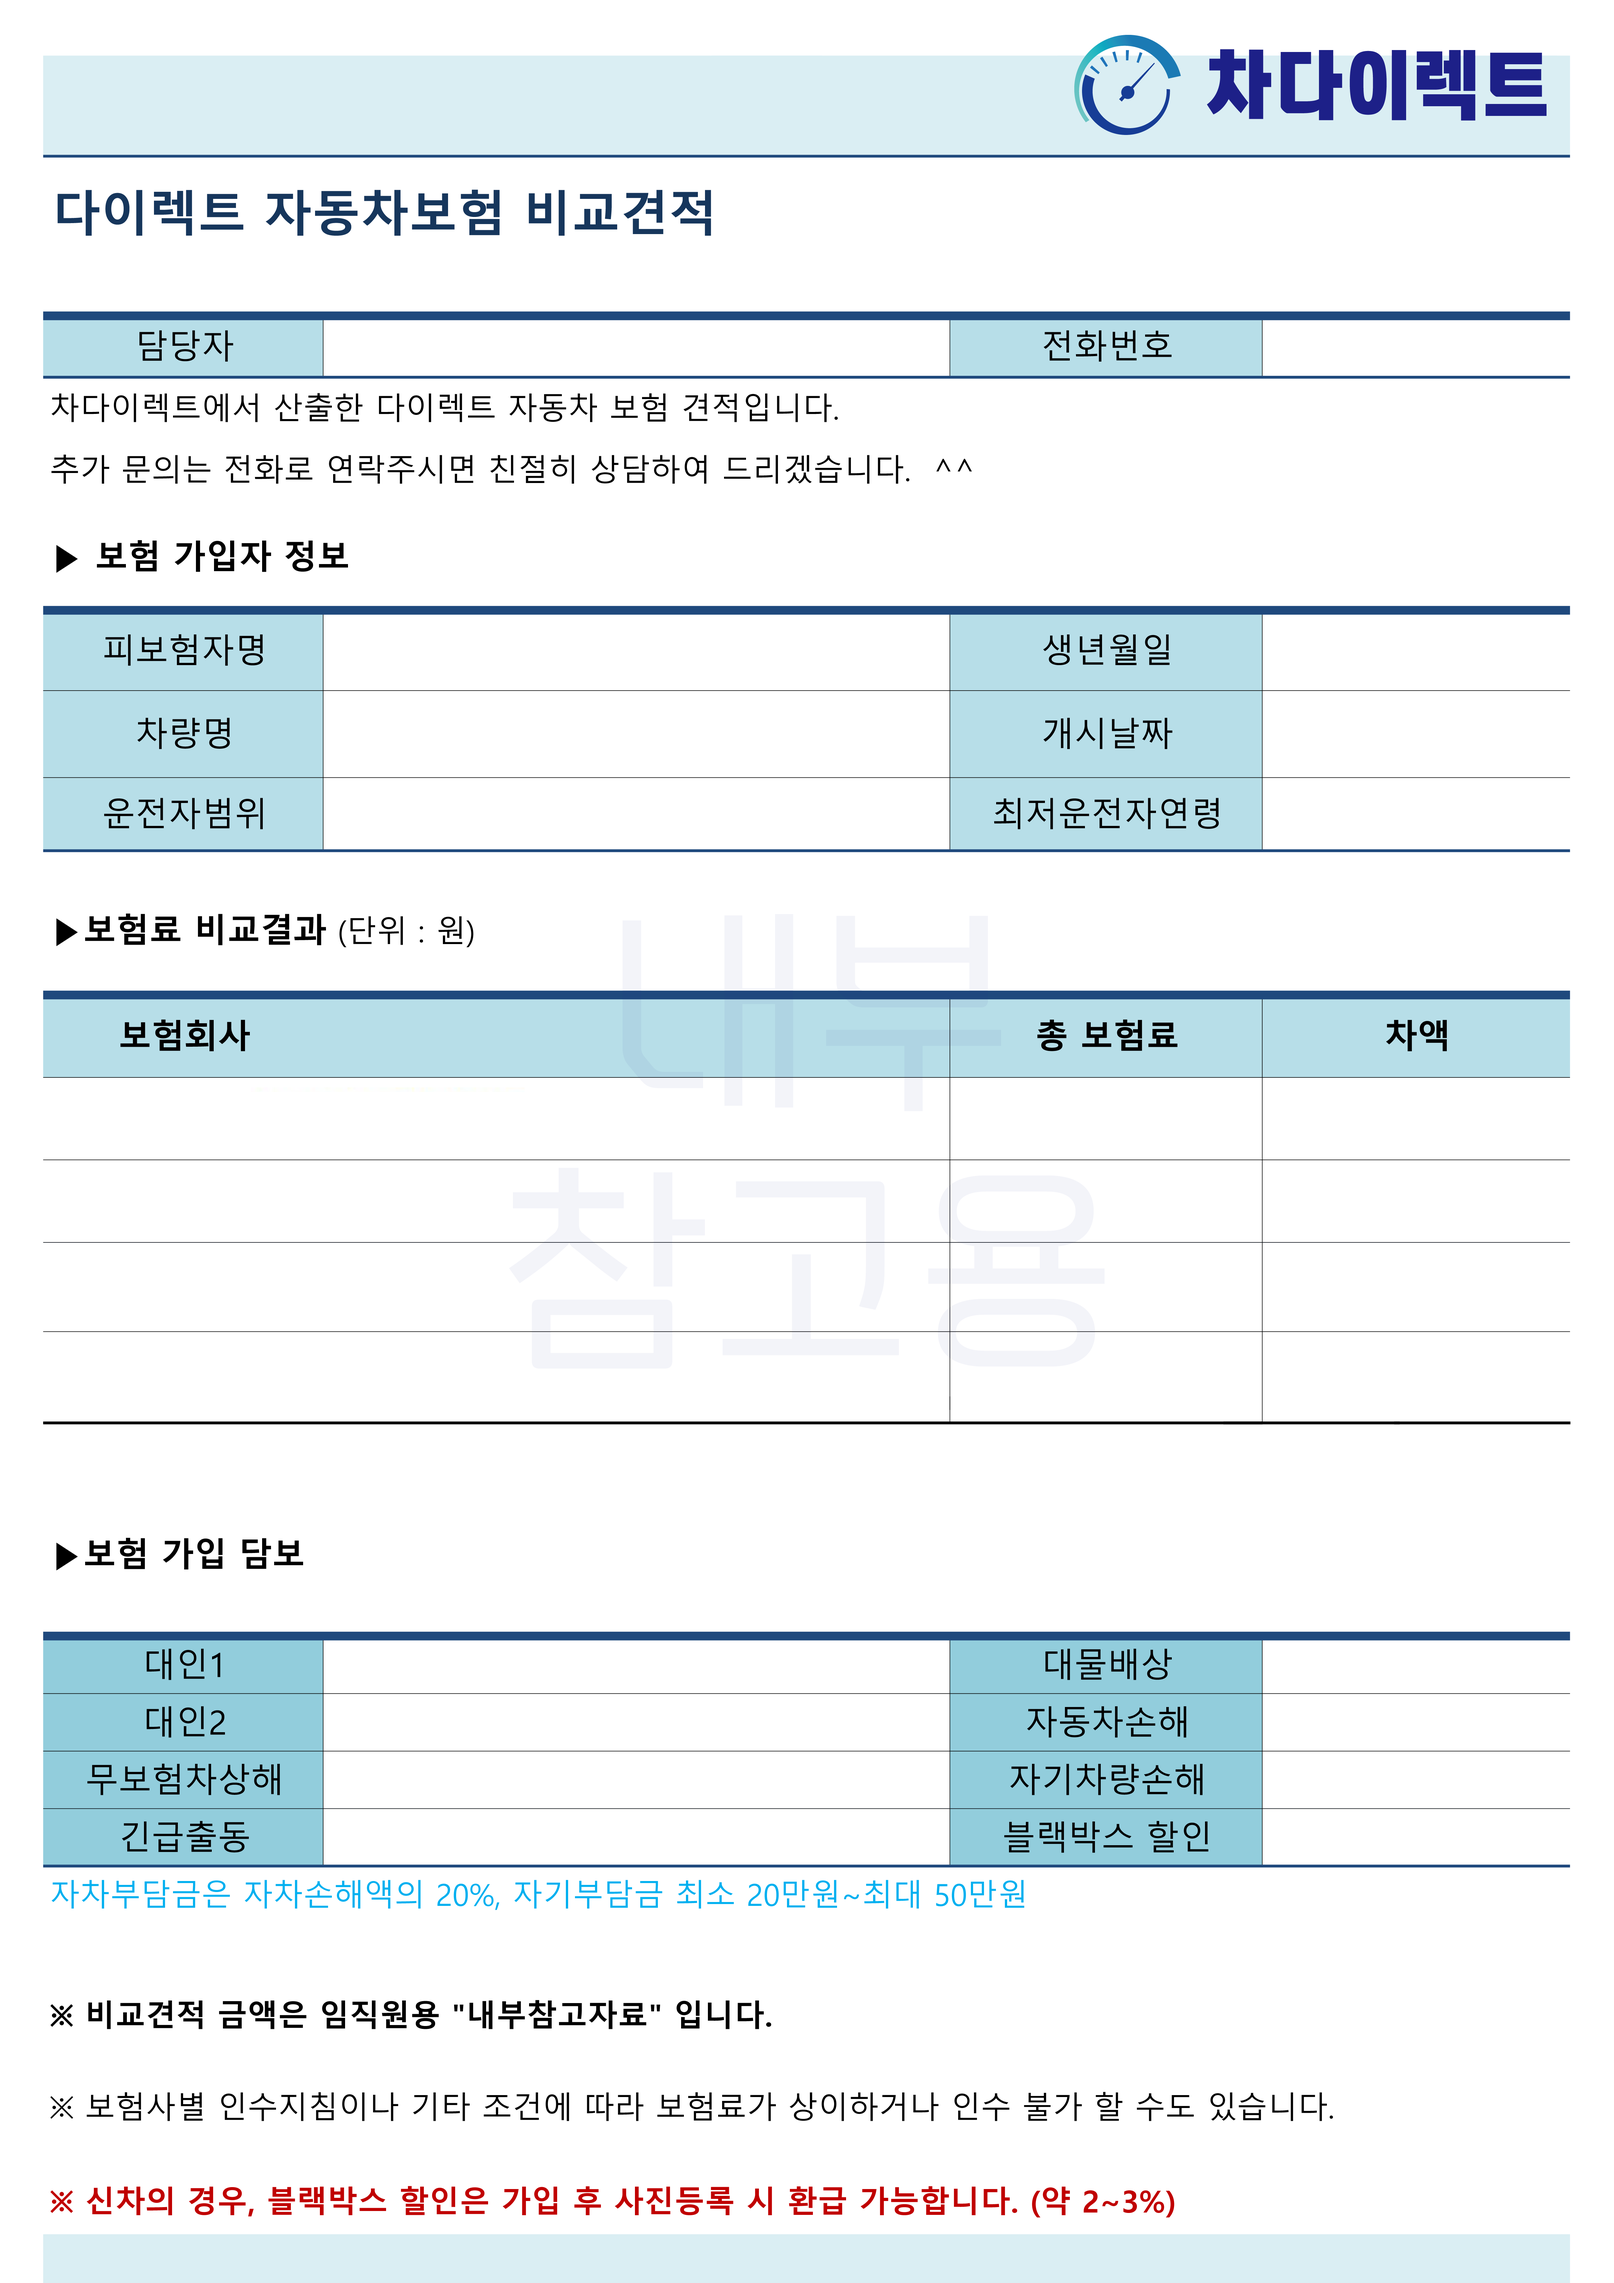
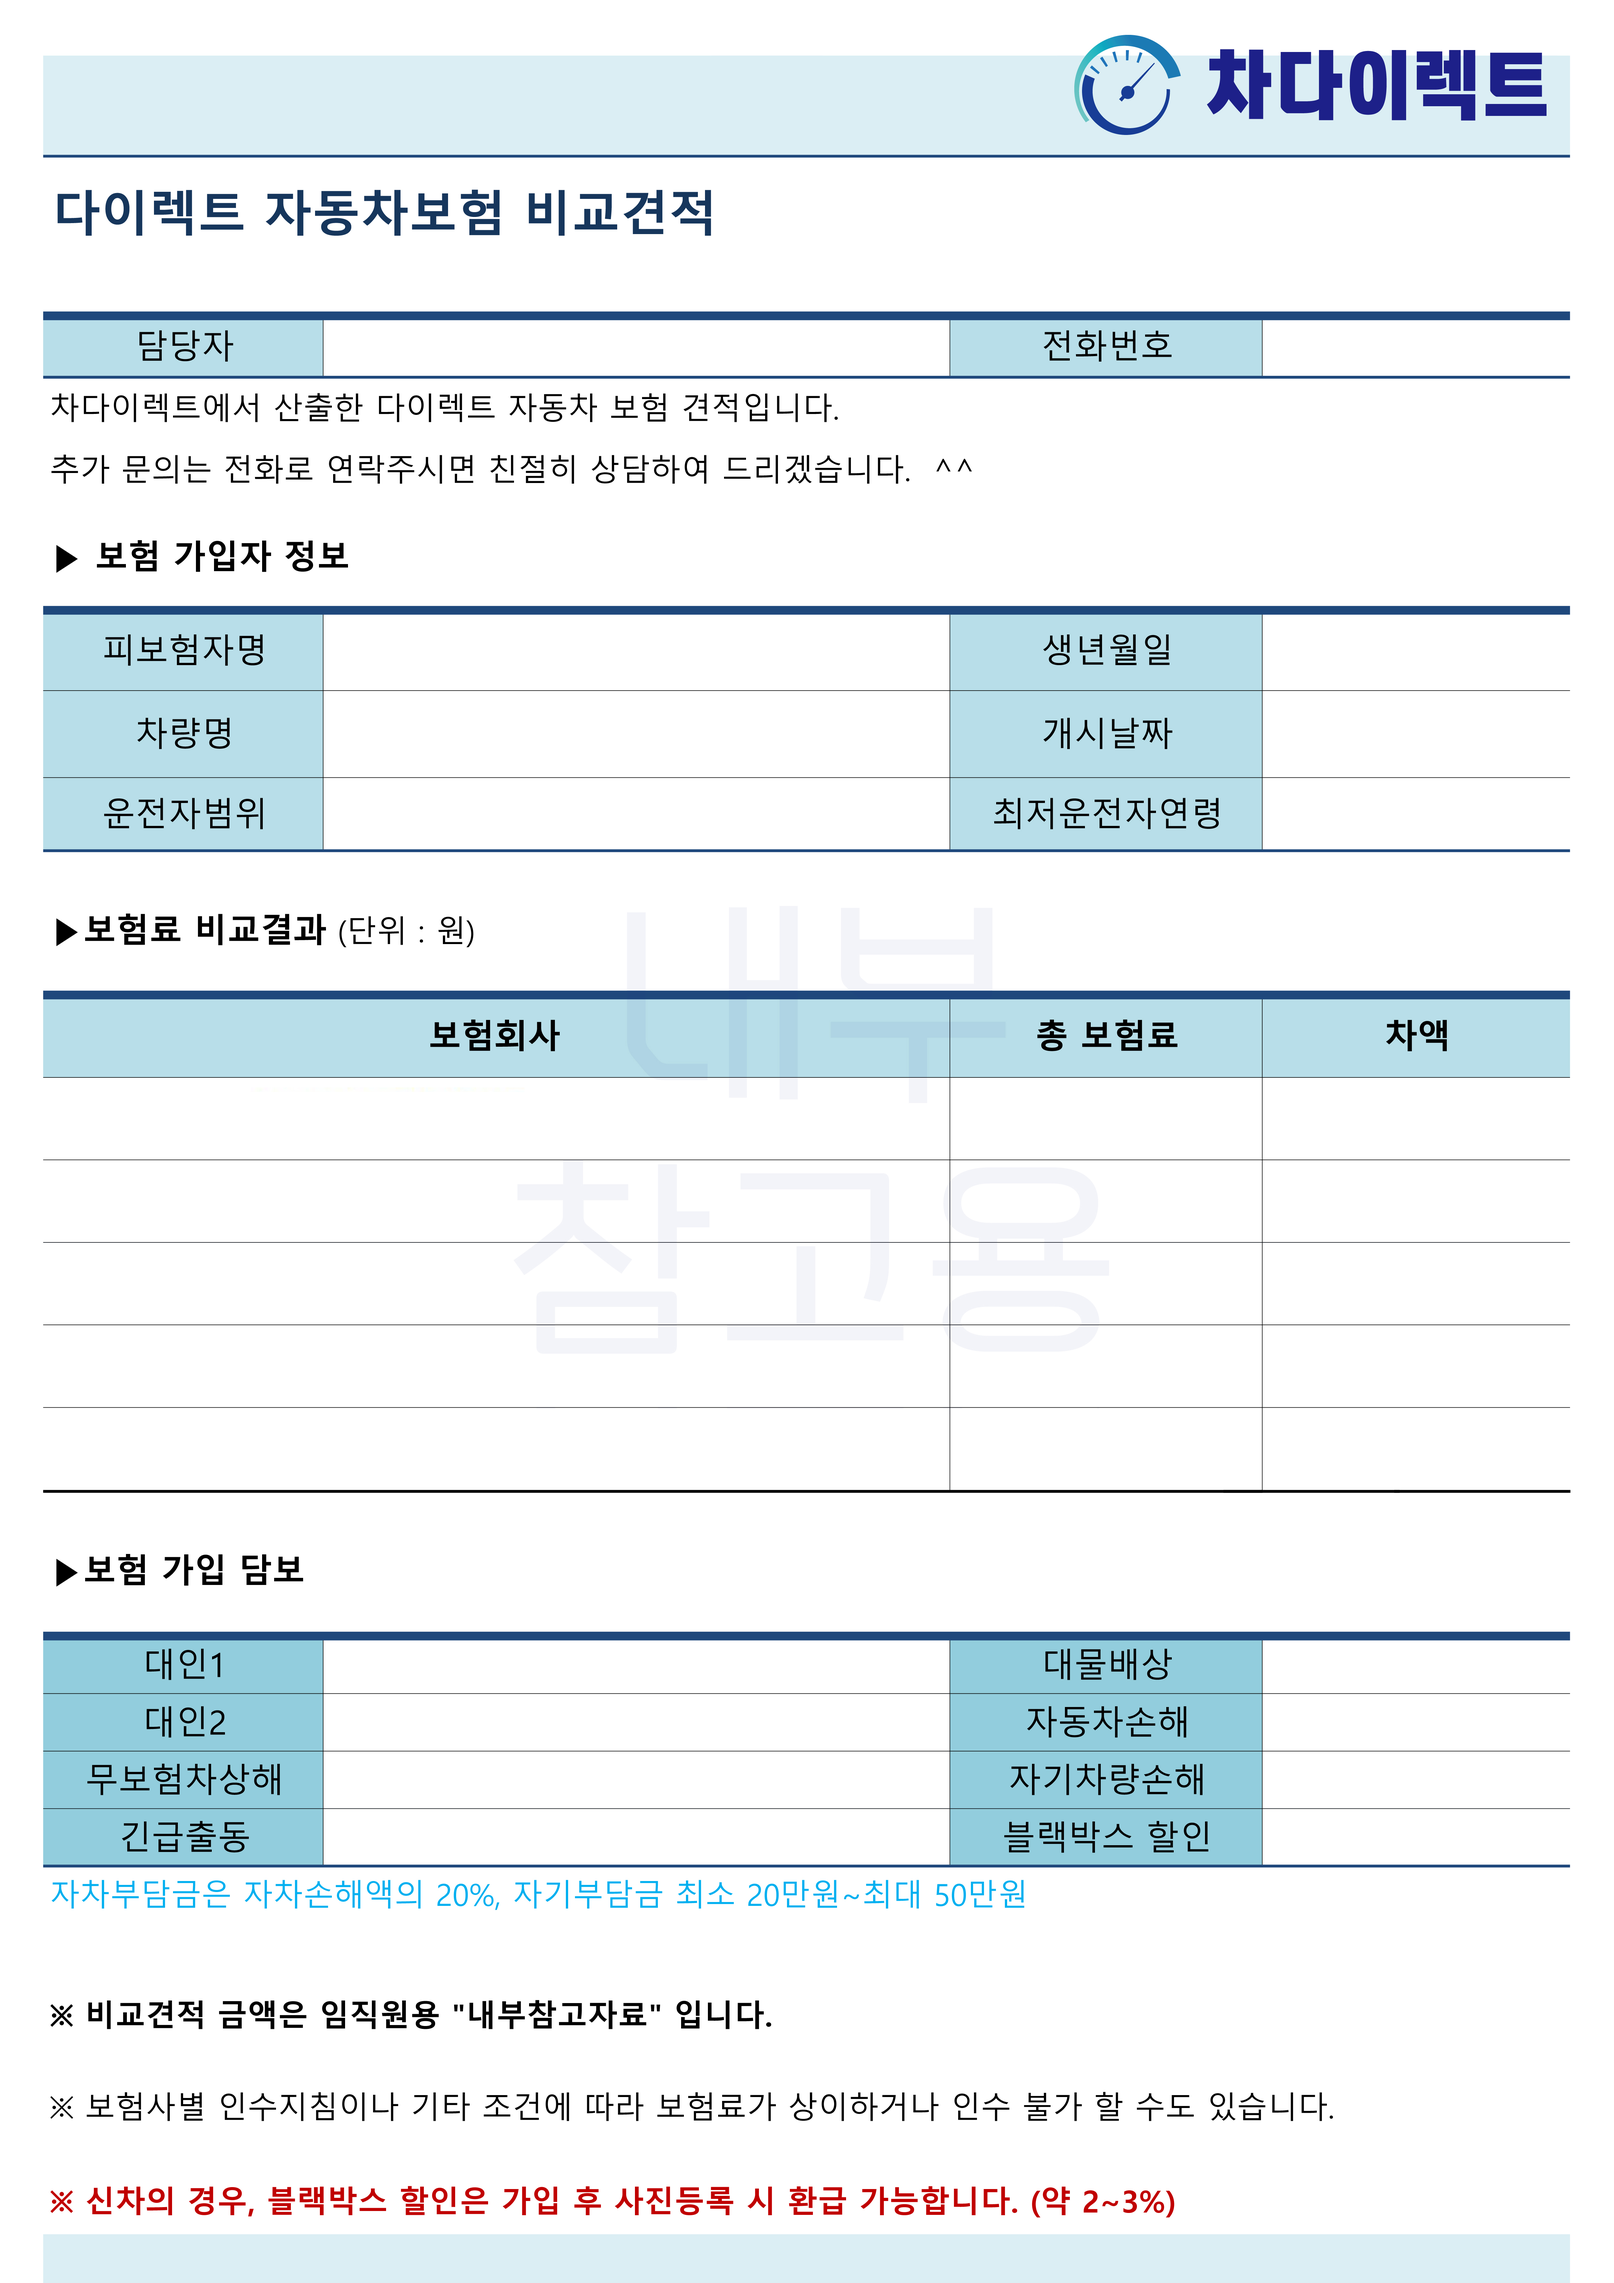
add auth

Changed region(s): [[0.0312, 0.6534, 0.1872, 0.7156], [0.0624, 0.4356, 0.156, 0.4667], [0.2808, 0.4356, 0.3432, 0.4667]]

diff --git a/src/carcompare/utils/estimate.py b/src/carcompare/utils/estimate.py
@@ -92,39 +92,39 @@ def generate_estimate_image(data, backgroud_image_url=None):
          "align": "center", "font": kor_font},
         {"attr_name": "min_driver_birthdate", "placeholder_position": (3912, 2410, 4863, 2629), "color": color_red,
          "align": "center", "font": kor_font},
-        {"attr_name": "insure_1", "placeholder_position": (135, 3337, 2940, 3590), "color": color_black,
+        {"attr_name": "insure_1", "placeholder_position": (132, 3336, 2944, 3593), "color": color_black,
          "align": "center", "font": kor_font},
-        {"attr_name": "insure_1_premium", "placeholder_position": (2945, 3337, 3912, 3590), "color": color_black,
+        {"attr_name": "insure_1_premium", "placeholder_position": (2945, 3336, 3912, 3593), "color": color_black,
          "align": "right", "font": kor_font},
-        {"attr_name": "insure_1_memo", "placeholder_position": (3913, 3337, 4863, 3590), "color": color_red,
+        {"attr_name": "insure_1_memo", "placeholder_position": (3913, 3336, 4863, 3593), "color": color_red,
          "align": "center", "font": kor_font},
 
-        {"attr_name": "insure_2", "placeholder_position": (135, 3596, 2940, 3845), "color": color_black,
+        {"attr_name": "insure_2", "placeholder_position": (132, 3592, 2944, 3848), "color": color_black,
          "align": "center", "font": kor_font},
-        {"attr_name": "insure_2_premium", "placeholder_position": (2945, 3596, 3912, 3845), "color": color_black,
+        {"attr_name": "insure_2_premium", "placeholder_position": (2945, 3592, 3912, 3848), "color": color_black,
          "align": "right", "font": kor_font},
-        {"attr_name": "insure_2_memo", "placeholder_position": (3913, 3596, 4863, 3845), "color": color_red,
+        {"attr_name": "insure_2_memo", "placeholder_position": (3913, 3592, 4863, 3848), "color": color_red,
          "align": "center", "font": kor_font},
 
-        {"attr_name": "insure_3", "placeholder_position": (135, 3850, 2940, 4122), "color": color_black,
+        {"attr_name": "insure_3", "placeholder_position": (132, 3847, 2944, 4104), "color": color_black,
          "align": "center", "font": kor_font},
-        {"attr_name": "insure_3_premium", "placeholder_position": (2945, 3850, 3912, 4122), "color": color_black,
+        {"attr_name": "insure_3_premium", "placeholder_position": (2945, 3847, 3912, 4104), "color": color_black,
          "align": "right", "font": kor_font},
-        {"attr_name": "insure_3_memo", "placeholder_position": (3913, 3850, 4863, 4122), "color": color_red,
+        {"attr_name": "insure_3_memo", "placeholder_position": (3913, 3847, 4863, 4104), "color": color_red,
          "align": "center", "font": kor_font},
 
-        {"attr_name": "insure_4", "placeholder_position": (135, 4125, 2940, 4400), "color": color_black,
+        {"attr_name": "insure_4", "placeholder_position": (132, 4103, 2944, 4357), "color": color_black,
          "align": "center", "font": kor_font},
-        {"attr_name": "insure_4_premium", "placeholder_position": (2945, 4125, 3912, 4400), "color": color_black,
+        {"attr_name": "insure_4_premium", "placeholder_position": (2945, 4103, 3912, 4357), "color": color_black,
          "align": "right", "font": kor_font},
-        {"attr_name": "insure_4_memo", "placeholder_position": (3913, 4125, 4863, 4400), "color": color_red,
+        {"attr_name": "insure_4_memo", "placeholder_position": (3913, 4103, 4863, 4357), "color": color_red,
          "align": "center", "font": kor_font},
 
-        {"attr_name": "insure_5", "placeholder_position": (135, 4400, 2940, 4678), "color": color_black,
+        {"attr_name": "insure_5", "placeholder_position": (132, 4356, 2944, 4620), "color": color_black,
          "align": "center", "font": kor_font},
-        {"attr_name": "insure_5_premium", "placeholder_position": (2945, 4400, 3912, 4678), "color": color_black,
+        {"attr_name": "insure_5_premium", "placeholder_position": (2945, 4356, 3912, 4620), "color": color_black,
          "align": "right", "font": kor_font},
-        {"attr_name": "insure_5_memo", "placeholder_position": (3913, 4400, 4863, 4678), "color": color_red,
+        {"attr_name": "insure_5_memo", "placeholder_position": (3913, 4356, 4863, 4620), "color": color_red,
          "align": "center", "font": kor_font},
 
         {"attr_name": "p_1", "placeholder_position": (1002, 5082, 2940, 5239), "color": color_black, "align": "center",
